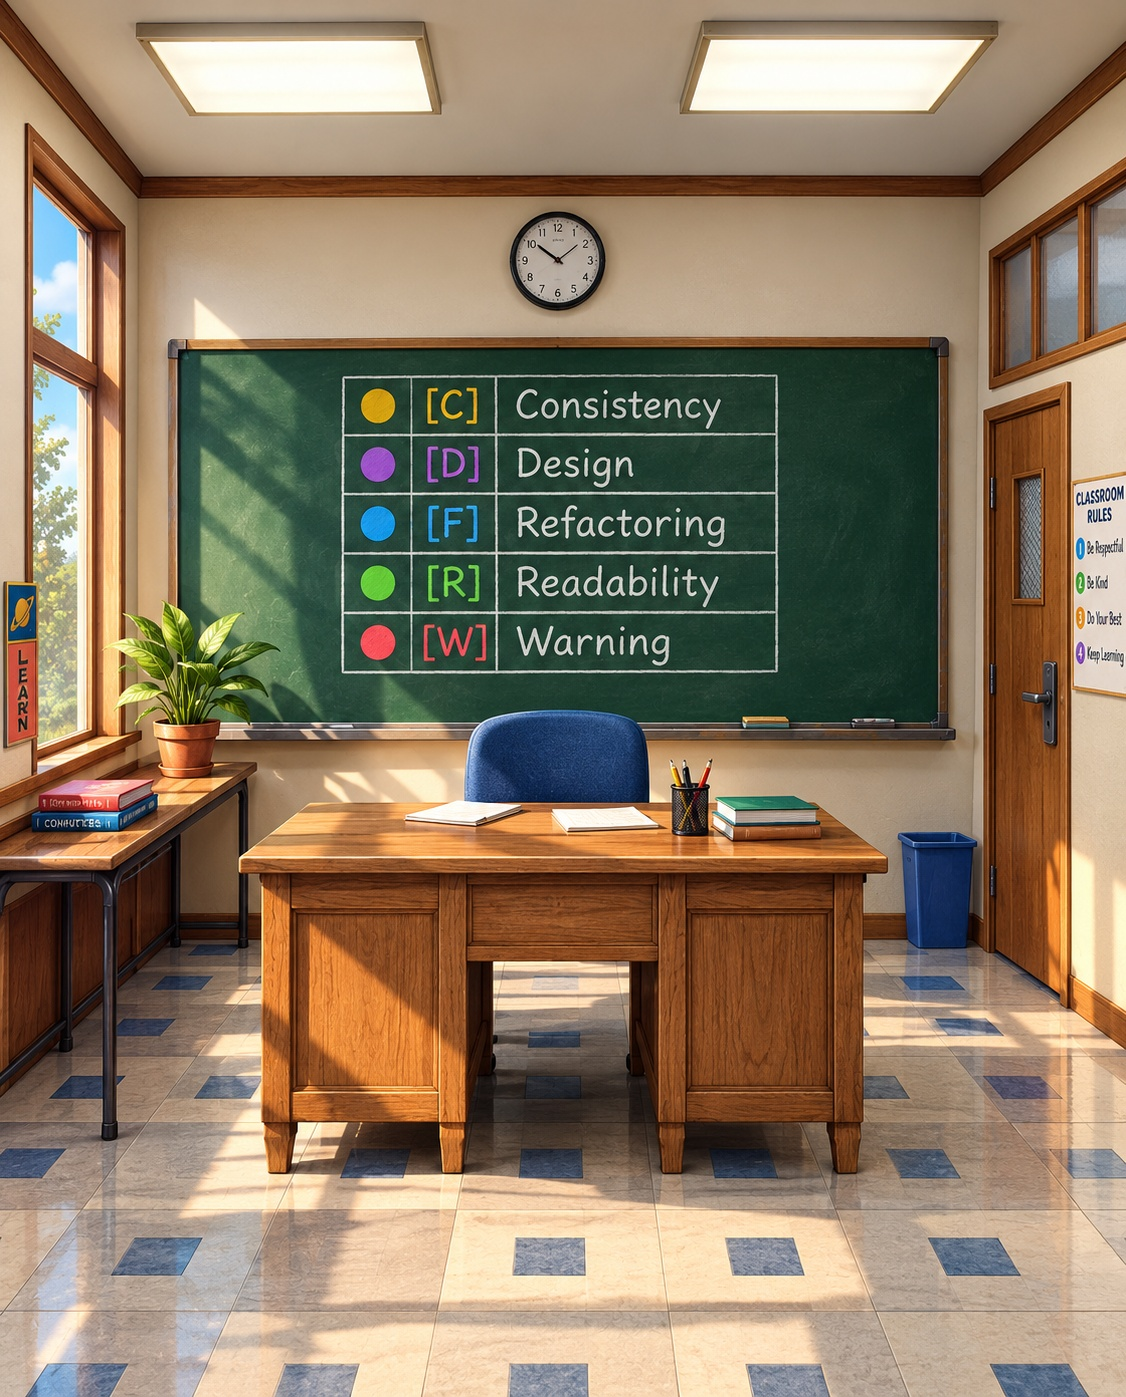
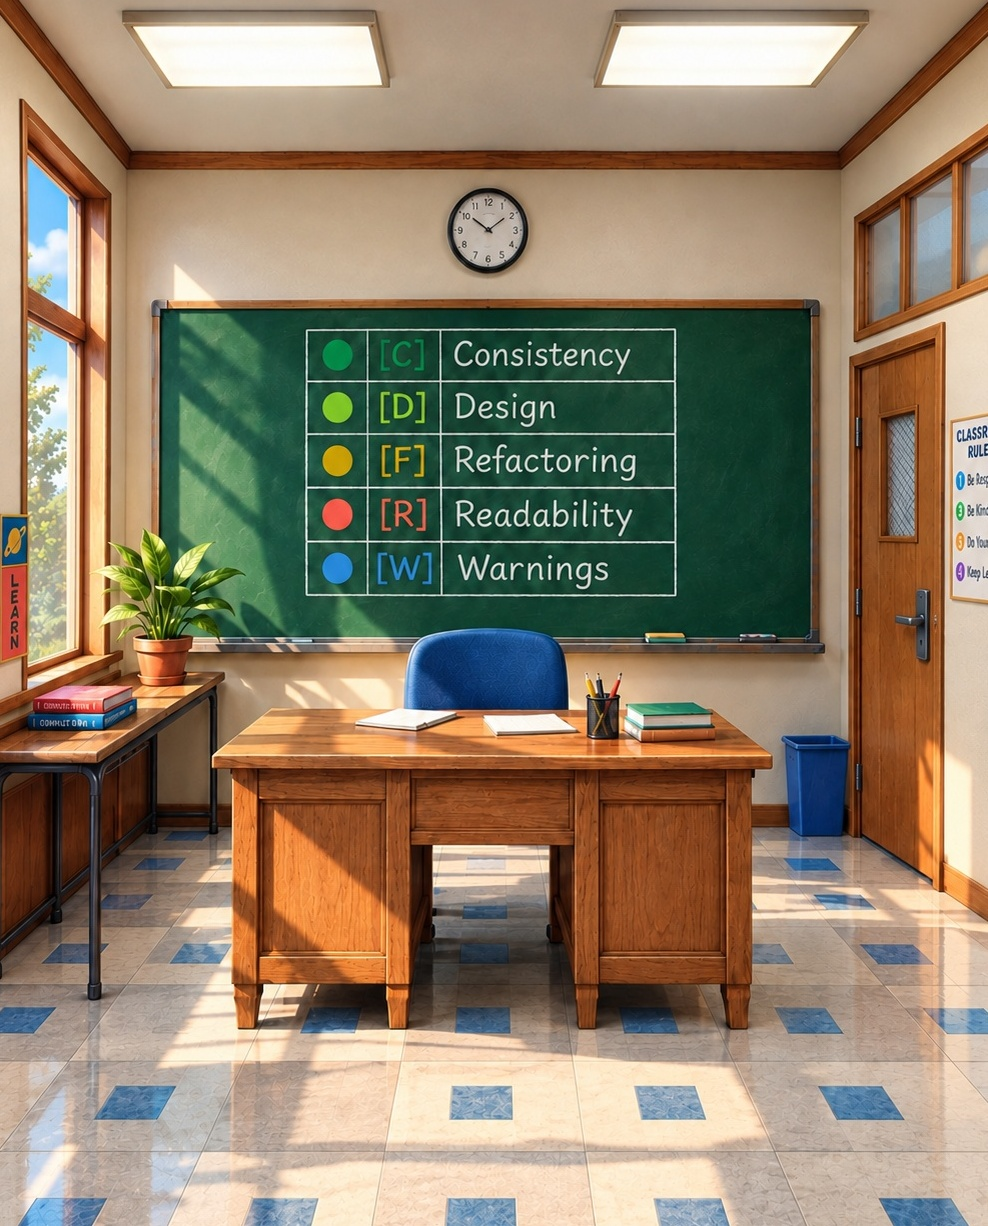
credo's board in the colours of its mark
The five rows of the chalk table take the bars of Credo's mark, top to
bottom, so the board echoes the mark beside the title, and the last
row reads Warnings. The change was sent to the expansion, which came
back with nothing else moved, so the hero is cut from it.

diff --git a/assets/covers/README.md b/assets/covers/README.md
@@ -142,7 +142,7 @@ rather than read back off a cover.
 | db_admin | console, late 80s — proposal 4, the alternative, chosen against an early-carton recommendation; the second console cover after exdebug. The box that pgadmin and adminer merged into; neither had art | lucid — the mechanism lets you see what you had been handling blind, laid out as it is, and leaves the hands to you; added for this cartridge | tr, `--size 0.19`, `--mark pgAdmin=marks/1-pgadmin.png --mark phpMyAdmin=marks/2-phpmyadmin.png --mark Adminer=marks/3-adminer.png --mark CloudBeaver=marks/4-cloudbeaver.png` — two turns under the banner, hero at 4:5 (825×1024) with its own lockup and no flash, first take; the expansion found at 1.00, edge-padded 5–15px within tolerance. The badge is the four admins' own marks, the author's call: composited by `--mark`, never asked of the generator — the projects' files, in `marks/` with `SOURCES.md` (the author's reference image had DBeaver's beaver for CloudBeaver, phpMyAdmin's legacy schooner and Adminer without its `<?`) — a row of rounded squares, each name under it, centred along the top of the window, where the hero keeps its top fifth calm. The seal at the default 0.23 met the row's last square at tr and covered the subtitle's P at br: 0.19 at tr, the row at 0.06 of the window's height Back on the first plate: console, violet board with a hard gradient, the embossed shield holding the door's four portholes as circles, nothing lettered; its band came back tan and lighter and was kept, the strip set inside it (`NAME_Y=1.298`, `INSTALL_ROW=beside`). Two frames at the shots' 580:503, 0.40 of the width each, off two probes seeded with a plant's production lines and downtime: Adminer on Postgres and phpMyAdmin on MySQL, each opened through the file the box writes, cropped to the table at about 2×; the copy from `NEED.md` and `DESIGN.md`, headline *No more SQL in the dark*, badge `4 ADMINS` (the front's marks, counted); `ERA=console`, accent the vault's orange `#FC8133` |
 | precommit | manual — made in conversation with the generator from proposal 3 (the editorial cover) as its starting point, and the era left behind with it: what came back is a photographic door, not a printed editorial ground. The image is the source, `cover.prompt.txt` its log of changes | scrupulous — the mechanism holds back what you were about to send, over something small, and holds it because you fitted it there and for nobody else; subtitles halt (`NOT YET`). New for this cartridge | tr, `--inside`, `--size 0.20`, **no badge** — the typeset `4 CHECKS` was stamped once and taken off: a white chip reads as a sticker from another system on photographic art, and this hero composes its own lettering (`PreCommit` / `Not yet.`, title case, uncorrected — the image is the source). The expansion made by hand, not by the second turn (`precommit/expand.py`), since the margins are wood grain rather than flat fields: the hero's own edge rows and columns repeated outward, and every pixel of it falls under the board. Two generated takes are archived before it, with their prompts, and the editorial hero's sealed cover and expansion with the second. Kept against the format block's value clause on purpose: the art means 41.5 in luminance against the board's 56.1, and in the seal's corner 52.3 — not *clearly* darker. It reads as a socket all the same, and the reason is the overlay: a banner meets the art along the top and the foot only, where this hero is at its darkest, and the sides are open. One cover is not evidence enough to touch the clause. Back on the first plate, manual like the front: asked from the hero as the reference image, it came back violet and lit from the right like the door, the chain ghosted straight down its middle and the door's wood as the strip, nothing lettered — and a photographed 3–4px rim, trimmed rather than regenerated (the plate as it came is `back-1`). Two real terminal shots from a scratch project, a commit refused by the formatter in the container and the hook's two blocks; accent `#B9A88A`, the hero's aged brass at its brightest; the `4 CHECKS` badge the front does not carry, since on the back everything is typeset |
 | test_doubles | manual — made in conversation with the generator from proposal 5 (CD-ROM, early 90s) as the starting point, after the editorial prompt (proposal 3, as recommended) was written and generated and its take did not read: three handsets seen from above did not say *stand-in*, the whole idea resting on three small debossed captions under objects that are not figures. No editorial take reached the repository, so none is archived. The image is the source, `cover.prompt.txt` its log of changes. The box that takes over from `mock`; mock had no art | understudy — the mechanism sends in a stand-in that plays the part exactly, so the real one is never called and nothing is at risk; added for this cartridge. The other half of mailer's *rehearsing*: there the real thing runs and goes nowhere, here it is not run at all | tr, `--inside`, `--size 0.15`, `-m 0.05,0.0164` — the seal raised 10px off the default inset, to 117px from the face's top, which leaves 12px of window above it: the banner it rests on ends high, and at the default 127px the seal sat low on its frame; 112px put it within 7px of the band and read tight. The manual hero at 4:5 (825×1024) with its own lockup, badge and captions, no furniture; the expansion painted by the second turn, which named what continues on each side — the bridge's ceiling above, the deck's plating and console strip below, the wall's panelling and its recessed screens at the sides — and came back as the padded canvas scaled down whole (727×1024 from 863×1214), hero found at correlation 0.97, edge-padded 2px, 2px and 4px within tolerance, face 730×1027 with the board at 1.00× its own size. A hand expansion was made first (`test_doubles/expand.py`, kept as the fallback): the hero's top and bottom edge rows are one near-flat dark band (stddev 6.9 and 3.9 over the 8 rows at each edge) and continue cleanly, but **this overlay has no board at the sides**, so the 19px slivers `pad` leaves there are on the finished cover, and a repeated column of the bridge's wall panelling shows where a painted one does not — which is the case for sending the turn even when the margins above and below are flat. **A manual hero is never told to keep a corner calm**, and this one came back with lettering in all four: badge at top left, a banner at top right, the lockup across both bottom corners — so the lettering bands were measured in the hero's own fractions before a corner was chosen (banner 0.073–0.857 of the width at 0.03–0.14 of the height; captions to 0.928 at 0.16–0.25), and at 0.23 the seal ate `Hammox` and the top of `BUILT TO SPEC` at tr and the lockup at either bottom corner. Change 1 of the log shortened the banner from `Mimic · Mox · Hammox` to `Mimic · Mox` — which also took a contradiction off the face, the badge counting two doubles beside three names, Hammox being what `--type-check` puts in Mox's place and not a third value of `--double` — and the seal at 0.15 clears every string, resting on the empty right end of the banner's frame  Back on the first plate, manual like the hero and made in conversation, not from the prompt written for it: not a board but an **interior** — a violet bulkhead with a lit panel of gears across the middle, a bench of flasks and two CRTs along the foot, two ghosted sunbursts, nothing lettered. It breaks the pattern the strip assumes, and composes anyway (`back.md`: judge a plate composed, not bare): measured band by band, the ceiling at 0.00-0.12 is the flattest field (stddev 6-10) and takes the two frames; the gears at 0.44-0.70 (stddev 17-24) carry the features, which read over them in the era's black; the plain wall at 0.70-0.80 takes the quote; the dark foot from 0.94 (stddev 11-19) is the band, thin, so `INSTALL_ROW=beside` and the row a step smaller (`NAME_POINT=0.019`, `INSTALL_POINT=0.014`) — at `NAME_Y=1.325` the legal line and the version ran off the face, 1.295 fits them. Two 600:279 frames at 0.40 of the width (2.06x), both terminals off a local `phx.new` probe with coverage installed, which is the cartridge that composes this box: the test helper with coverage's own block and the `mimic` dep behind it, and `mix test` on the cover task — nine green, `0.2s async, 0.00s sync`, the concurrency `mock` had cost it. The shots were cropped to their content and the shorter padded to the other's height, so both frames take one rectangle. The copy from `NEED.md` and `DESIGN.md`, headline *The real one never answers*, the quote Valim's own; the flash's second line cut to two-part versions to fit its box; `ERA=cdrom`, accent the wireframe figure's cyan read off the hero (#B9E6F3) |
-| credo | manual — made by the author outside the repository from proposal 7 (the classroom, the author's own, off Credo's own word for itself, *teaching*) and the classroom drawing that was its reference; the image is the source, `cover.prompt.txt` its log of changes. It replaces a prompted console hero (late 80s) of five takes: 1 carton (27 fractions lettered on the face), 2 not generated, 3 console (6 fractions as a margin scale), 4 accepted and its lockup kept, 5 sealed — the prompted box archived whole as `cover-4*` (hero, padded canvas, expansion, cut, sealed), the manual hero as it arrived as `hero-manual-1.png`. The drawing and its 4:5 crop were deleted by the author | tireless — the same remark the thousandth time as the first, no heat in it (added for credo); subtitle `THE LESSON STANDS` | tr, `--inside --size 0.18`, `--mark credo=marks/1-credo.png --lockup art/lockup.png --lockup-fit 0.50,0.05 --lockup-at 0.5,0.838 --mark-beside-lockup` — Credo's own mark and the title composited as one centred block in the **lower part** of the window, over the desk's legs and the tiled floor (set by the author by eye at 0.838, 100px above the first 0.92), the calmest band of this hero; the seal inside at top right, on the ceiling between the right fixture and the transom windows. The prompted hero had them the other way round (lockup at the top over a bare ceiling, `--seal-at 0.5,0.93`), and on this hero that put the subtitle over the wall clock and the title over both fixtures; straddling tr, the seal covers the banner's `WORKBENCH`. The manual hero at 4:5 (1126×1397), the board chalked with the five groups and their colours, no title, no badge; the expansion painted by the second turn, which came back as the padded canvas scaled down whole (1057×1488 from 1177×1656), hero found at correlation 0.93, face 1033×1453, the board 1.42× its own size. Open in the log: two book spines lettered in non-words, and `[W] Warning` where Credo says *Warnings*. Back on the first plate, from its prompt alone with no reference attached: violet board lit from the upper left like the front, a blind-stamped shield holding **five bars** (the five groups, the mark's echo with no lettering), the band from 1.260; two frames at 600:520 holding real screens off a `phx.new` probe with the cartridge inserted `--githook` — `mix credo` over a shift-report module (three remarks, two of them the front's chalk verbatim) and `cat .githooks/pre-commit` (credo's block above the slow divider) — headline *NOBODY SAYS IT TWICE.*, the quote Credo's README's own first line, `INSTALL_ROW=beside` because two rows ran the legal line and the version off a 0.147 band, `ERA=console`, accent the front's ochre |
+| credo | manual — made by the author outside the repository from proposal 7 (the classroom, the author's own, off Credo's own word for itself, *teaching*) and the classroom drawing that was its reference; the image is the source, `cover.prompt.txt` its log of changes. It replaces a prompted console hero (late 80s) of five takes: 1 carton (27 fractions lettered on the face), 2 not generated, 3 console (6 fractions as a margin scale), 4 accepted and its lockup kept, 5 sealed — the prompted box archived whole as `cover-4*` (hero, padded canvas, expansion, cut, sealed), the manual hero as it arrived as `hero-manual-1.png`. The drawing and its 4:5 crop were deleted by the author | tireless — the same remark the thousandth time as the first, no heat in it (added for credo); subtitle `THE LESSON STANDS` | tr, `--inside --size 0.18`, `--mark credo=marks/1-credo.png --lockup art/lockup.png --lockup-fit 0.50,0.05 --lockup-at 0.5,0.838 --mark-beside-lockup` — Credo's own mark and the title composited as one centred block in the **lower part** of the window, over the desk's legs and the tiled floor (set by the author by eye at 0.838, 100px above the first 0.92), the calmest band of this hero; the seal inside at top right, on the ceiling between the right fixture and the transom windows. The prompted hero had them the other way round (lockup at the top over a bare ceiling, `--seal-at 0.5,0.93`), and on this hero that put the subtitle over the wall clock and the title over both fixtures; straddling tr, the seal covers the banner's `WORKBENCH`. The manual hero at 4:5 (1126×1397), the board chalked with the five groups and their colours, no title, no badge; the expansion painted by the second turn, which came back as the padded canvas scaled down whole (1057×1488 from 1177×1656), hero found at correlation 0.93, face 1033×1453, the board 1.42× its own size. Change 2 put the board's five rows in the colours of Credo's mark, its bars top to bottom (green, lime, mustard, coral, blue), chosen by the author over the terminal's cyan, olive, yellow, blue and red, and corrected `Warning` to *Warnings*; it was sent to the expansion rather than the hero and came back at the expansion's size with nothing else moved, so the hero is cut from the expansion where `cut` had found the first (correlation 1.00). Open: two book spines lettered in non-words. Back on the first plate, from its prompt alone with no reference attached: violet board lit from the upper left like the front, a blind-stamped shield holding **five bars** (the five groups, the mark's echo with no lettering), the band from 1.260; two frames at 600:520 holding real screens off a `phx.new` probe with the cartridge inserted `--githook` — `mix credo` over a shift-report module (three remarks, two of them the front's chalk verbatim) and `cat .githooks/pre-commit` (credo's block above the slow divider) — headline *NOBODY SAYS IT TWICE.*, the quote Credo's README's own first line, `INSTALL_ROW=beside` because two rows ran the legal line and the version off a 0.147 band, `ERA=console`, accent the front's ochre |
 | test_data | editorial cover, mid 80s — proposal 3, as recommended; the first editorial cover on the shelf (precommit's editorial take was left for a manual door). The box exmachina was renamed into; it had no art | supporting — the mechanism supplies everyone the scene needs, plausible and forgettable, so the one you came for stands alone where you can see it (added for test_data); subtitle `THE REST ARE EXTRAS` | tr, `--inside --size 0.20`, no `--badge` (the hero's own debossed `4 RULES` came back right at the top left). One take: seven paper dolls from one strip, six with one graphite detail each, the centre one coloured violet with `ANA` on its chest, lockup and flash lettered by the generator. Its margins are one flat warm grey, so no second turn: `test_data/expand.py` repeats the hero's edge rows and columns (precommit's recipe), and `cut` found the hero at correlation 0.99. Back on the second plate (the first came back 4:5 with a floating band, archived as `back-1`): even violet coated stock, the era's colophon debossed — an oval with one paper doll inside, arms out — the band from 1.272; two frames at 600:520 holding real screens off a `phx.new` probe — `mix test --trace` over the factory test, two factories inserting and `orphan_post` failing by name on the foreign key, and the factory module's four rules above its factories — headline *EVERYONE ELSE IS CAST.*, the quote Pryce's, `INSTALL_ROW=beside`, `ERA=editorial`, accent the front's paper `#F3E8D5` (its violet disappears on a violet back). A small square blemish on the plate falls under the second frame |
 
 When `NEED.md` joined the cartridge anatomy (2026-08-30) the five
